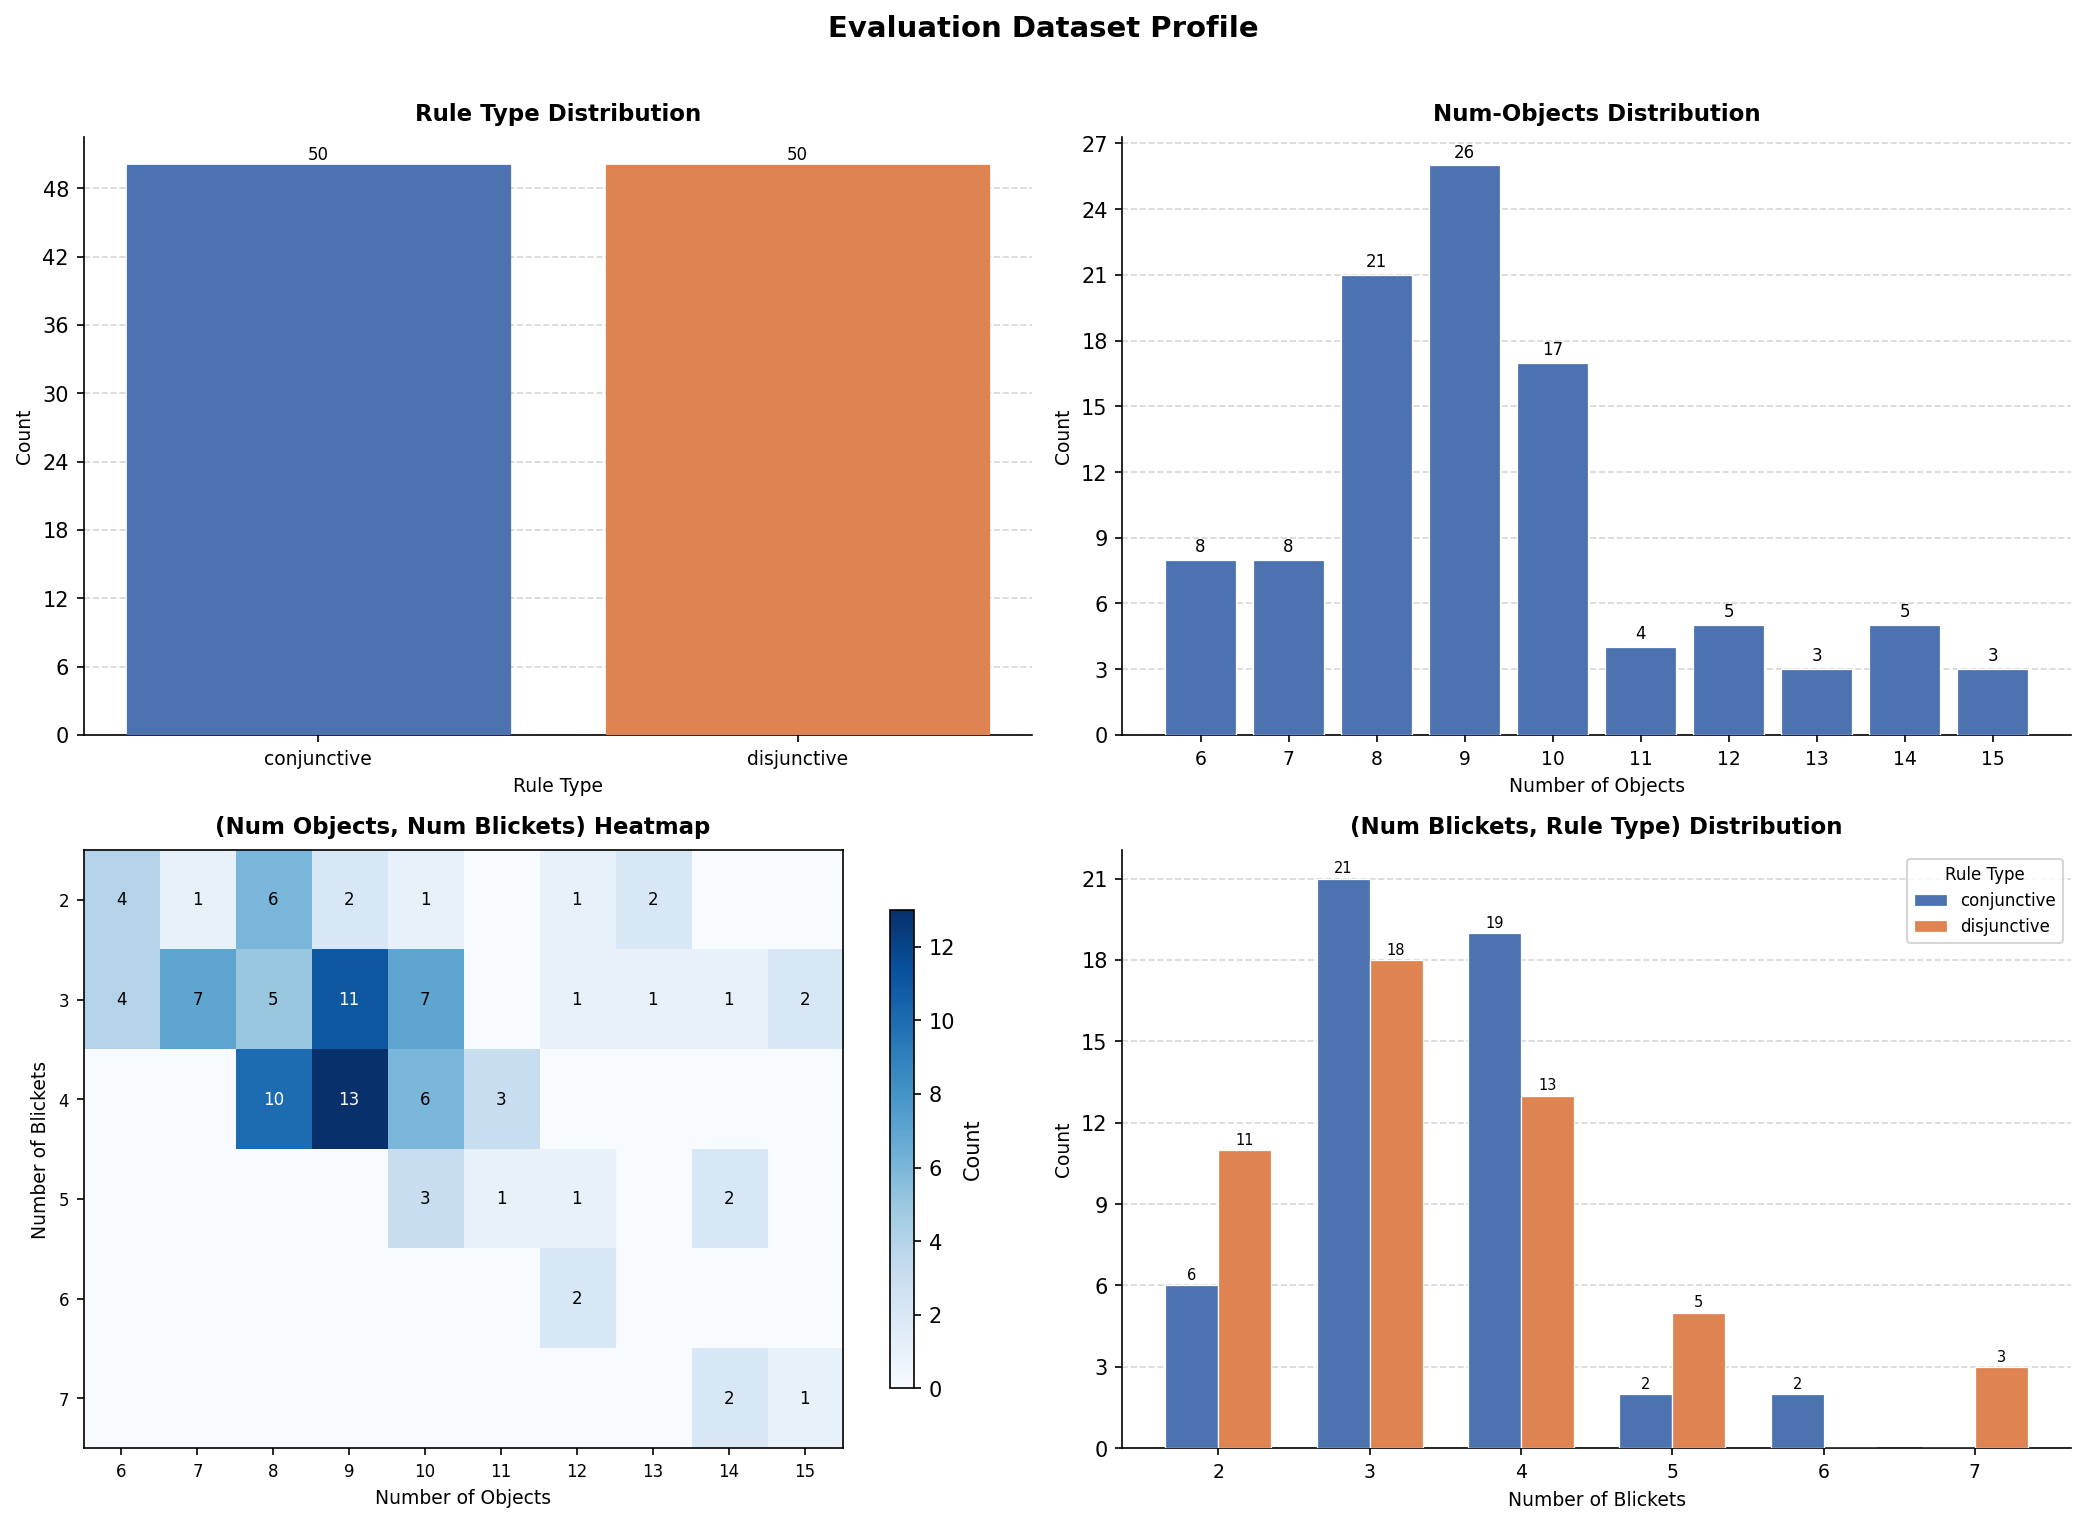
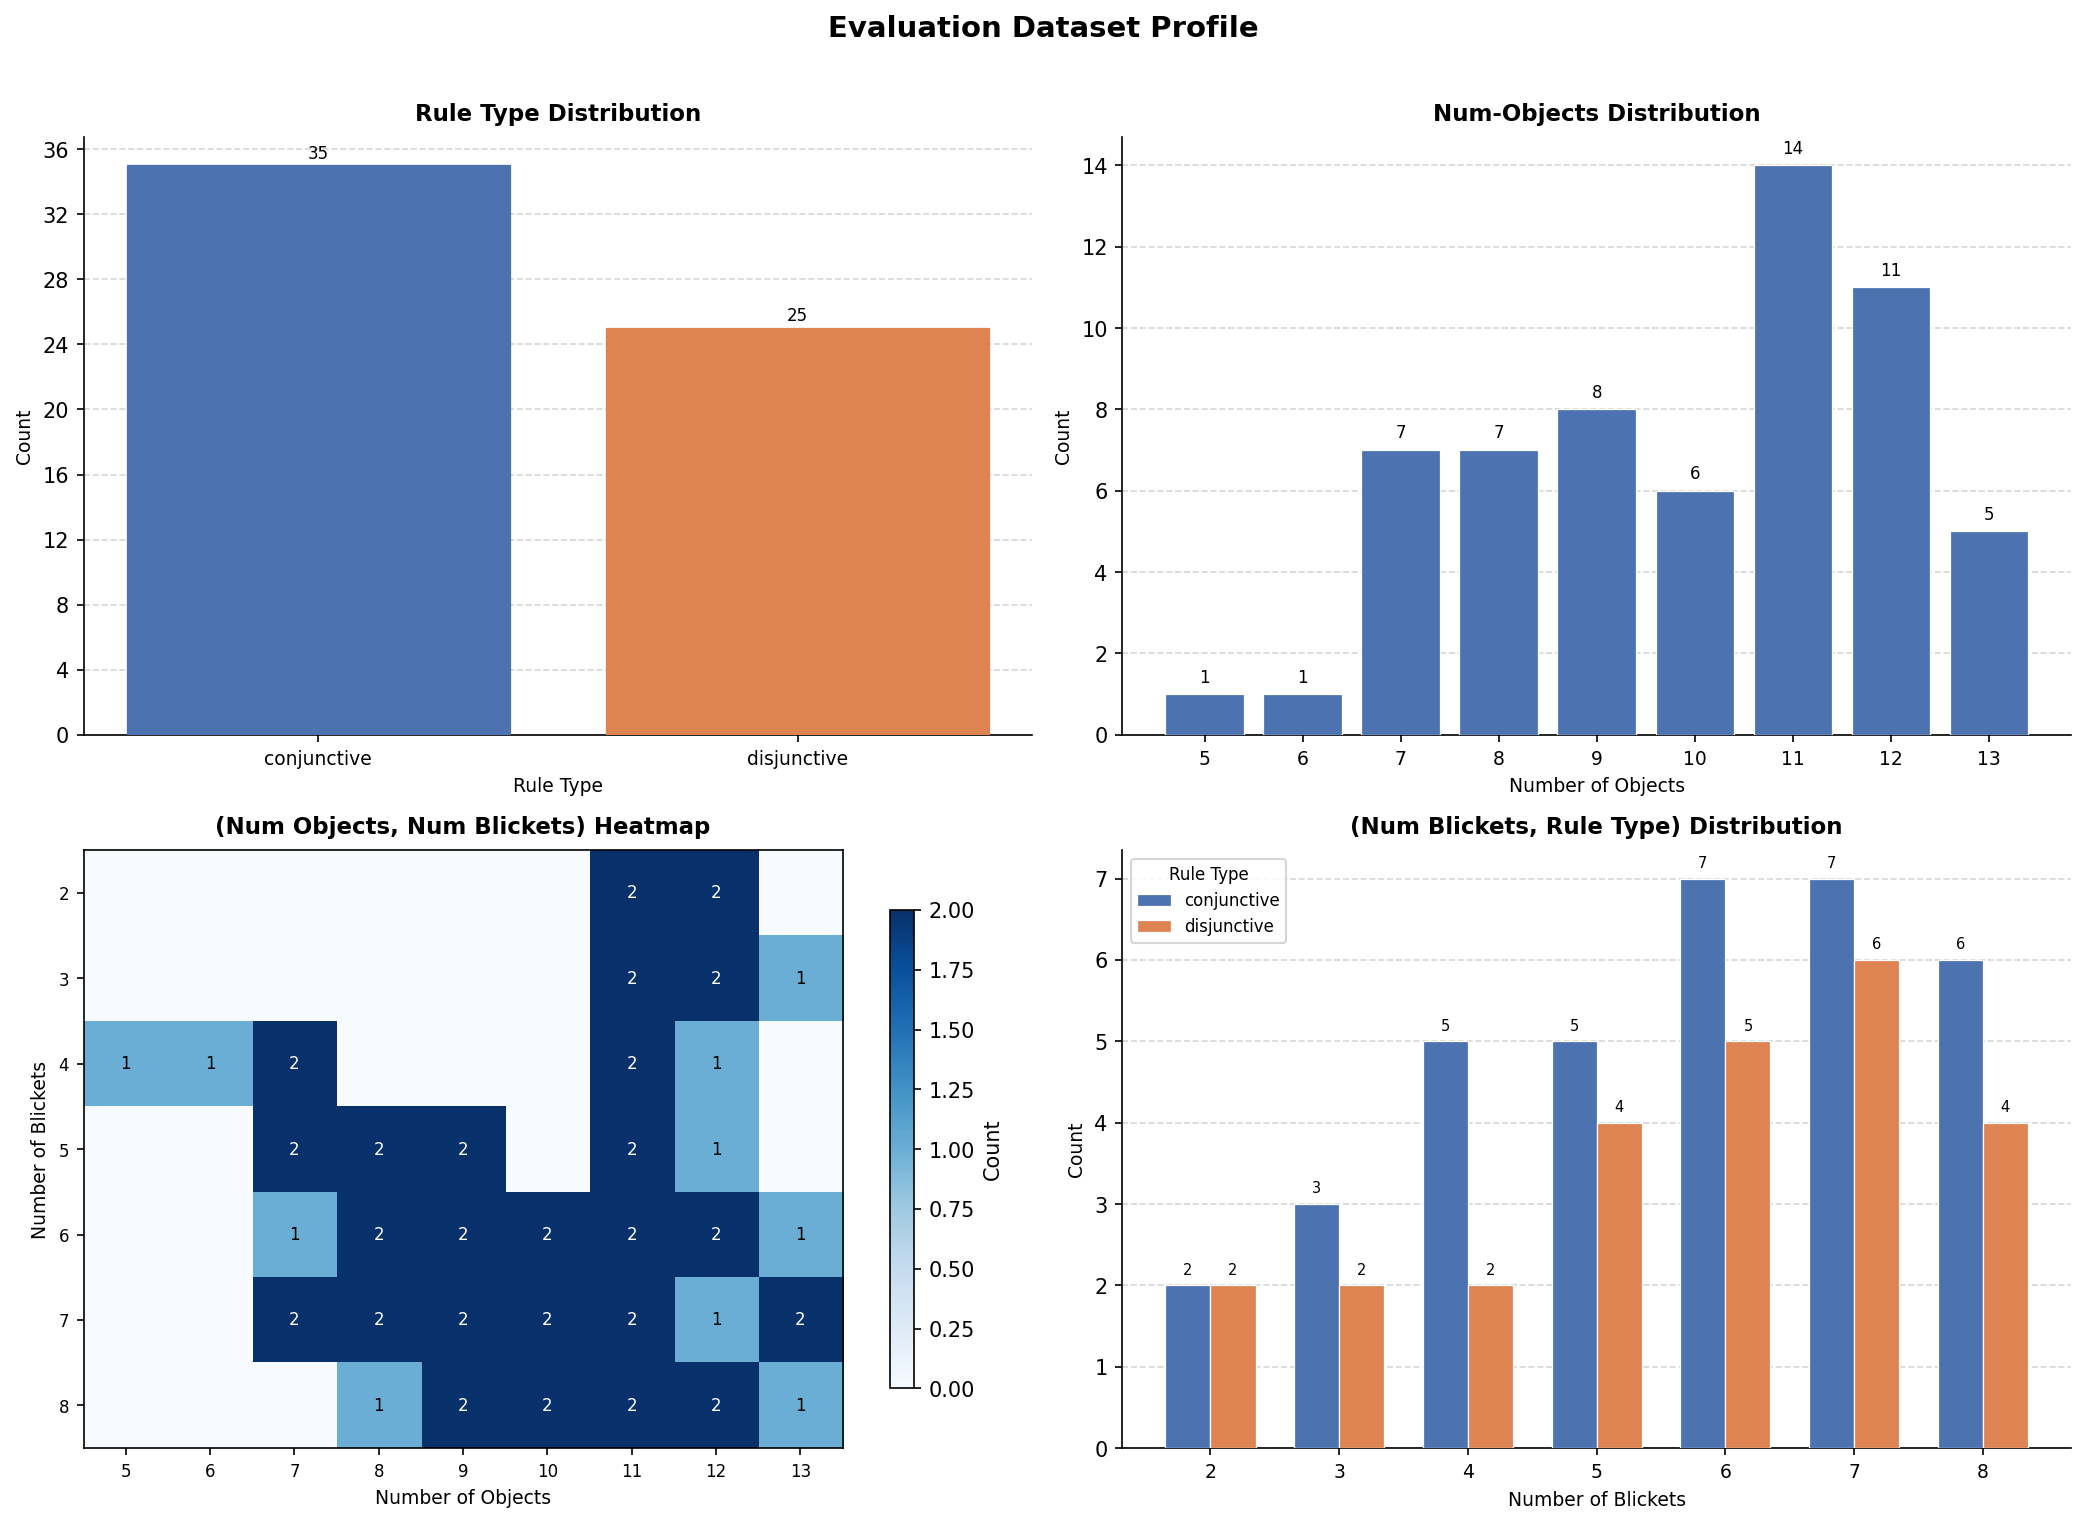
profiling new eval set

diff --git a/environments/BlicketTest_CausalReasoning/profile_eval_dataset.py b/environments/BlicketTest_CausalReasoning/profile_eval_dataset.py
@@ -1,13 +1,12 @@
 #!/usr/bin/env python3
 # /// script
 # requires-python = ">=3.12"
-# dependencies = ["matplotlib", "numpy"]
+# dependencies = ["matplotlib", "numpy", "datasets"]
 # ///
 """
-Profile an evaluation dataset from a results.jsonl file.
+Profile the evaluation dataset loaded from HuggingFace (irfanjamil/BlicketEnv_Eval_Set).
 
-The file contains 300 records (100 unique examples × 3 rollouts each).
-This script deduplicates by example_id and provides:
+Provides:
   - Counts per rule type
   - Counts per number of objects
   - Counts per (num_objects, num_blickets) combination
@@ -16,31 +15,31 @@ This script deduplicates by example_id and provides:
 
 import argparse
 import json
-import sys
 from collections import Counter
 from pathlib import Path
 
 import matplotlib.pyplot as plt
 import matplotlib.ticker as ticker
 import numpy as np
+from datasets import load_dataset
+
+HF_REPO = "irfanjamil/BlicketEnv_Eval_Set"
 
 
 # ──────────────────────────────────────────────────────────────────────────────
 # Data loading
 # ──────────────────────────────────────────────────────────────────────────────
 
-def load_unique_examples(path: Path) -> list[dict]:
-    """Load jsonl, keeping only the first occurrence of each example_id."""
-    seen: set[int] = set()
-    unique: list[dict] = []
-    with open(path) as fh:
-        for line in fh:
-            record = json.loads(line)
-            eid = record["example_id"]
-            if eid not in seen:
-                seen.add(eid)
-                unique.append(record)
-    return unique
+def load_from_hf(repo: str = HF_REPO, split: str = "eval") -> list[dict]:
+    """Load dataset from HuggingFace and normalise info to a dict."""
+    ds = load_dataset(repo, split=split)
+    examples = []
+    for row in ds:
+        record = dict(row)
+        if isinstance(record["info"], str):
+            record["info"] = json.loads(record["info"])
+        examples.append(record)
+    return examples
 
 
 # ──────────────────────────────────────────────────────────────────────────────
@@ -276,22 +275,17 @@ def visualize(
 
 def parse_args() -> argparse.Namespace:
     parser = argparse.ArgumentParser(
-        description="Profile a BlicketTest evaluation results.jsonl file."
+        description="Profile the BlicketEnv eval dataset from HuggingFace."
     )
     parser.add_argument(
-        "jsonl",
-        nargs="?",
-        default=(
-            "outputs/evals/"
-            "BlicketTest_CausalReasoning--anthropic--claude-3.5-haiku/"
-            "b82c5c9b/results.jsonl"
-        ),
-        help="Path to results.jsonl (default: claude-3.5-haiku result)",
+        "--repo",
+        default=HF_REPO,
+        help=f"HuggingFace dataset repo (default: {HF_REPO})",
     )
     parser.add_argument(
         "--save",
         metavar="FILE",
-        default="datasets_profile/eval_profile.png",
+        default="environments/BlicketTest_CausalReasoning/datasets_profile/eval_profile.png",
         help="Save figure to FILE instead of displaying it (e.g. profile.png)",
     )
 
@@ -300,11 +294,7 @@ def parse_args() -> argparse.Namespace:
 
 def main() -> None:
     args = parse_args()
-    path = Path(args.jsonl)
-    if not path.exists():
-        sys.exit(f"Error: file not found: {path}")
-
-    examples = load_unique_examples(path)
+    examples = load_from_hf(repo=args.repo)
 
     rule_counts        = count_rule_types(examples)
     obj_counts         = count_num_objects(examples)
